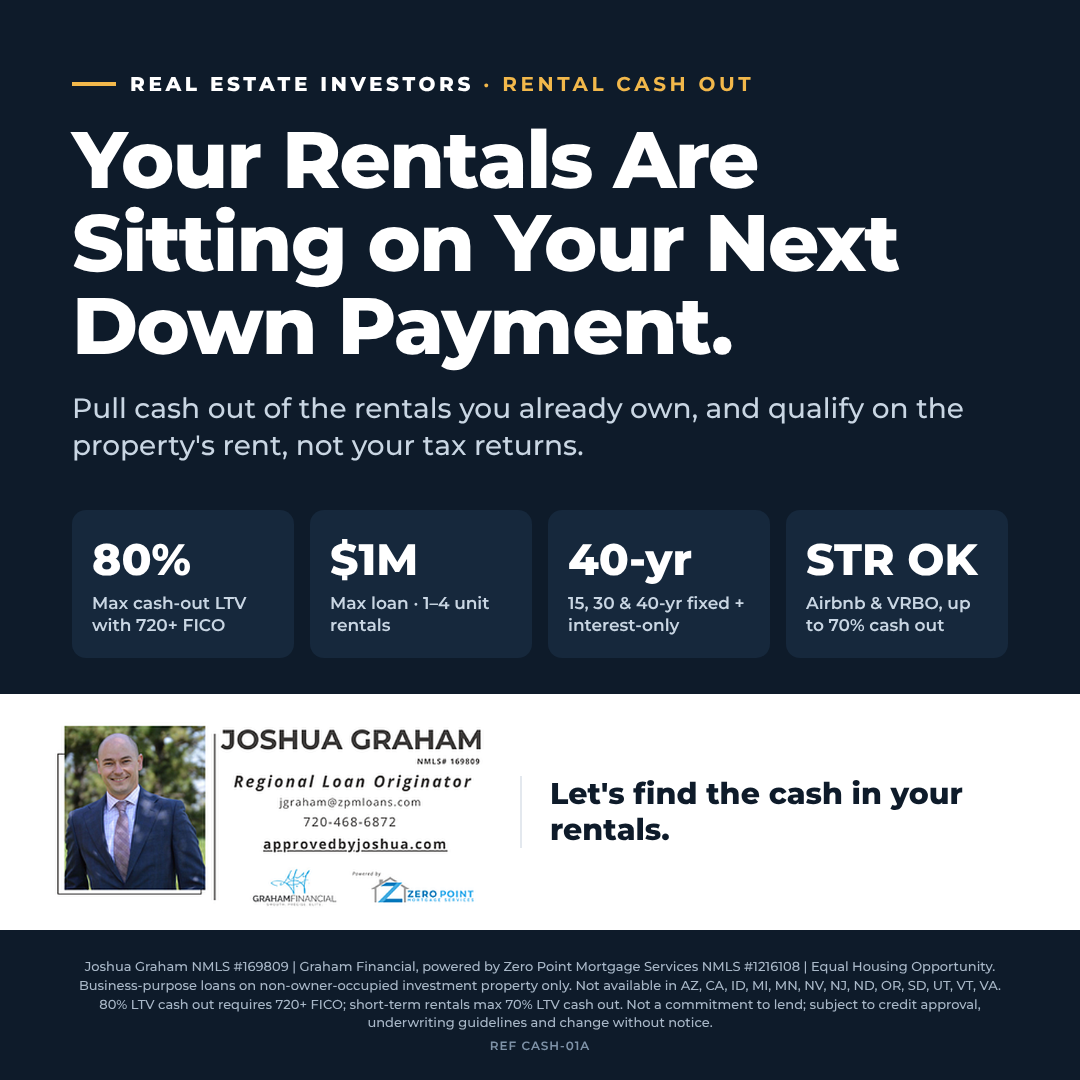
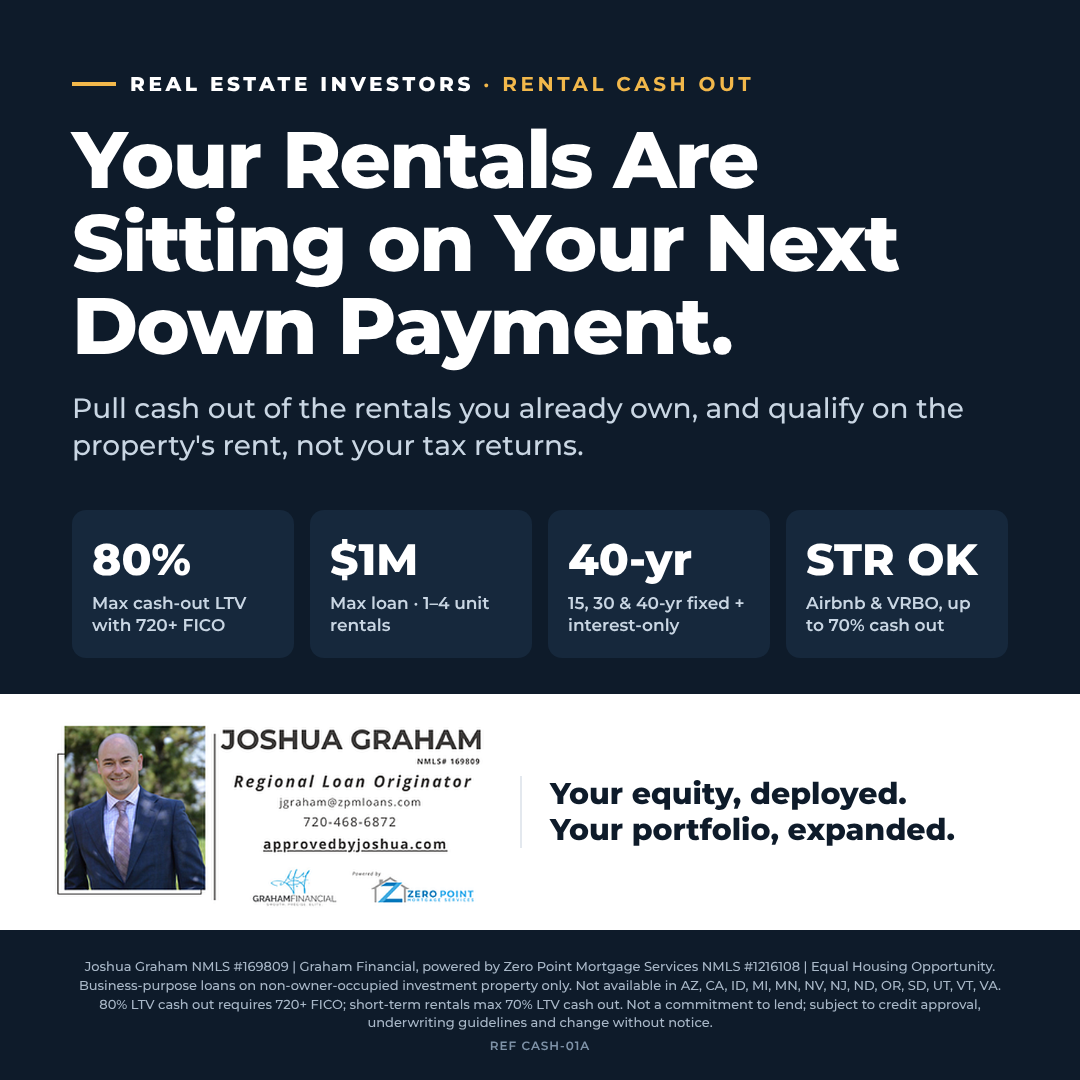
Save point: CASH-01 band + copy closer -> Your equity, deployed. Your portfolio, expanded.
Claude-Session: https://claude.ai/code/session_01HF5EFoWpB6dZDERsWsq2kx

Changed region(s): [[0.4889, 0.7028, 0.8861, 0.7944]]

diff --git a/src/smart-money/data.js b/src/smart-money/data.js
@@ -134,7 +134,7 @@ Pull equity out of the rentals you already own and put it to work on your next d
 ✔ 1–4 unit rentals, loans up to $1M
 ✔ Short-term rentals OK (up to 70% cash out)
 
-Let's find the cash in your rentals 👇`,
+Your equity, deployed. Your portfolio, expanded 👇`,
     long: `Your rentals are sitting on your next down payment.
 
 Most investors have more buying power than they think. It's just sitting in the properties they already own.
@@ -145,7 +145,7 @@ Up to 80% LTV with a 720+ FICO. 15, 30 and 40-year fixed terms, plus interest-on
 
 Use it for the down payment on the next one, a rehab, or reserves.
 
-Let's find the cash in your rentals. Run the REAL numbers on your property 👇`,
+Your equity, deployed. Your portfolio, expanded. Run the REAL numbers on your property 👇`,
     video: {
       title: "The down payment you already own",
       hook: "Your next down payment might already be sitting in a rental you own.",
@@ -229,7 +229,7 @@ Pull equity out of the rentals you already own and put it to work on your next d
 ✔ 1–4 unit rentals, loans up to $1M
 ✔ Short-term rentals OK (up to 70% cash out)
 
-Let's find the cash in your rentals 👇`,
+Your equity, deployed. Your portfolio, expanded 👇`,
     long: `Pull cash out of your rentals. No tax returns.
 
 Most investors have more buying power than they think. It's just sitting in the properties they already own.
@@ -240,7 +240,7 @@ Up to 80% LTV with a 720+ FICO. 15, 30 and 40-year fixed terms, plus interest-on
 
 Use it for the down payment on the next one, a rehab, or reserves.
 
-Let's find the cash in your rentals. Run the REAL numbers on your property 👇`,
+Your equity, deployed. Your portfolio, expanded. Run the REAL numbers on your property 👇`,
     video: {
       title: "The down payment you already own",
       hook: "Your next down payment might already be sitting in a rental you own.",
@@ -381,7 +381,7 @@ Pull equity out of the rentals you already own and put it to work on your next d
 ✔ 1–4 unit rentals, loans up to $1M
 ✔ Short-term rentals OK (up to 70% cash out)
 
-Let's find the cash in your rentals 👇`,
+Your equity, deployed. Your portfolio, expanded 👇`,
     long: `Cash out up to 80%. Qualify on the rent.
 
 Most investors have more buying power than they think. It's just sitting in the properties they already own.
@@ -392,7 +392,7 @@ Up to 80% LTV with a 720+ FICO. 15, 30 and 40-year fixed terms, plus interest-on
 
 Use it for the down payment on the next one, a rehab, or reserves.
 
-Let's find the cash in your rentals. Run the REAL numbers on your property 👇`,
+Your equity, deployed. Your portfolio, expanded. Run the REAL numbers on your property 👇`,
     video: {
       title: "The down payment you already own",
       hook: "Your next down payment might already be sitting in a rental you own.",
